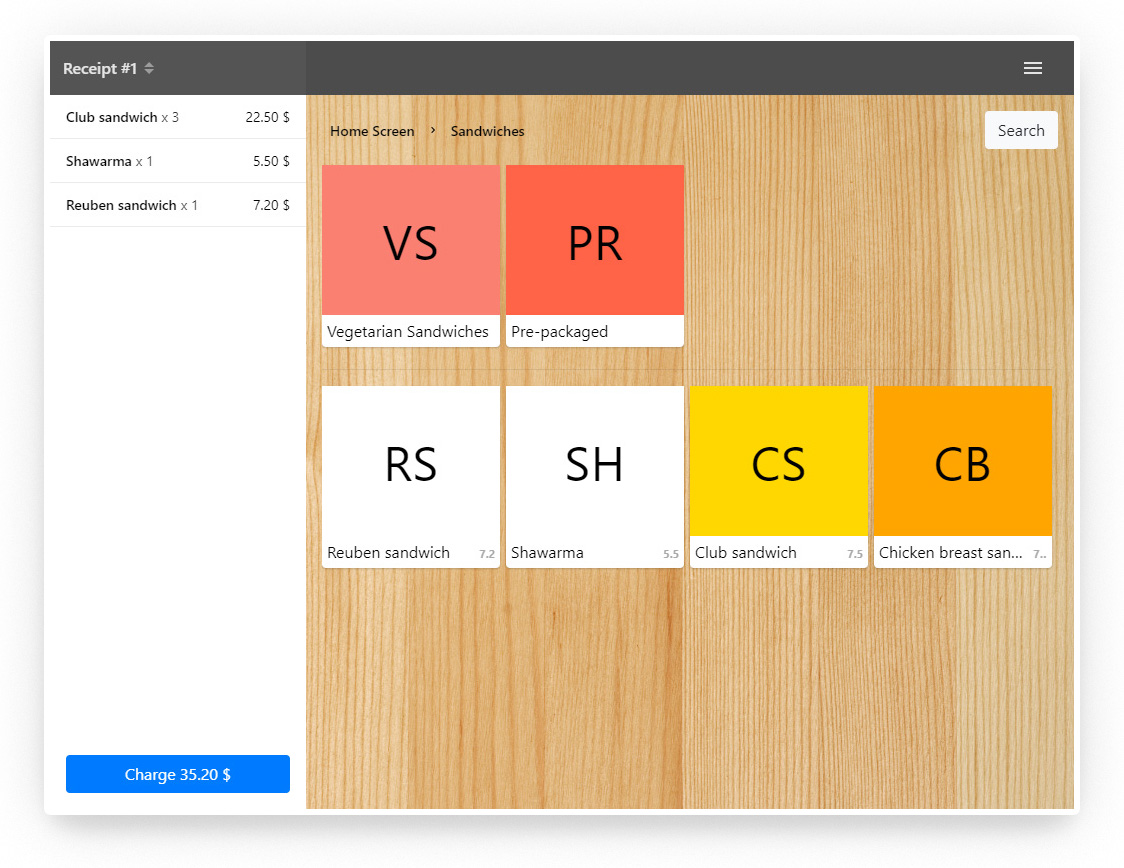
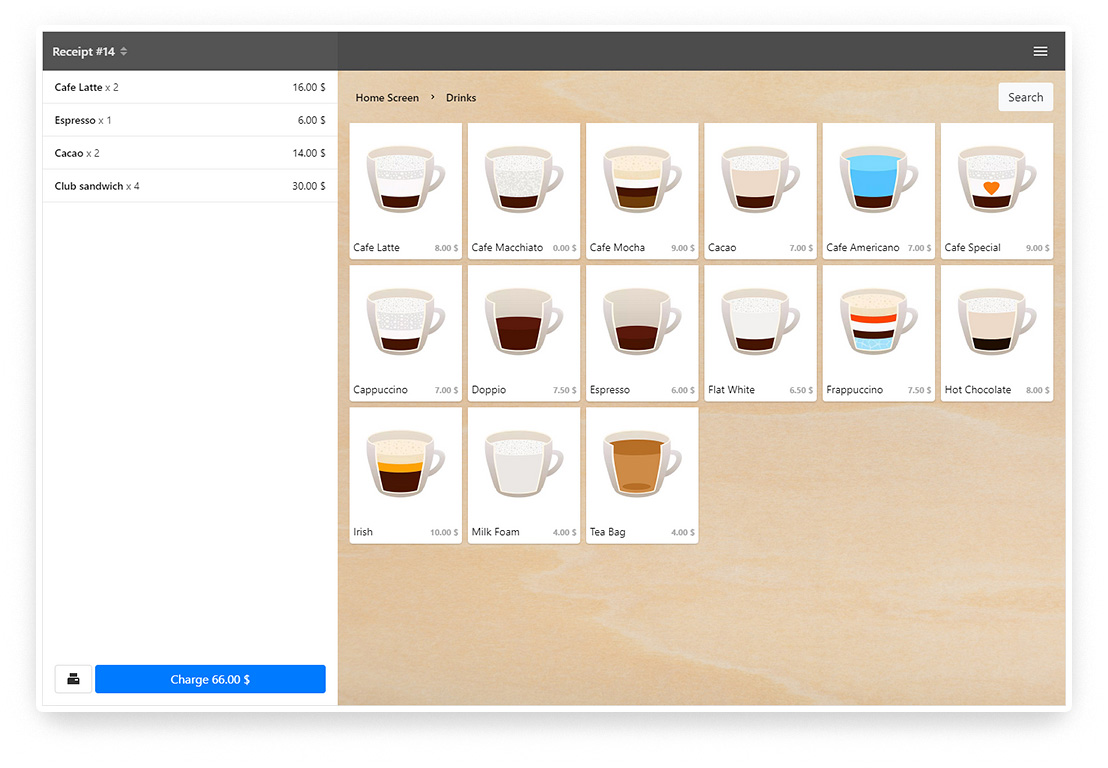
Working on demo mode.

diff --git a/src/hooks/app-context.tsx b/src/hooks/app-context.tsx
@@ -7,6 +7,12 @@ import { createOrder, getOrderData, getOrderItemIndexById } from './app-helpers'
 
 type Context<S> = [S, (value: Partial<S>) => void, TerminalServices];
 
+const store = localForage.createInstance({
+  driver      : localForage.INDEXEDDB,
+  name        : 'AsatelitPOS',
+  version     : 0.2,
+});
+
 // initial state
 export const TerminalInitialState: Context<TerminalState> = [
   {
@@ -58,9 +64,9 @@ export const TerminalInitialState: Context<TerminalState> = [
 
 const readContextFromLocalStorage = (initState: TerminalState): Promise<TerminalState> => {
   // get parsed state from local storage
-  return localForage
+  return store
     .getItem('state')
-    .then(state => (state ? { ...initState, ...JSON.parse(state as string) } : initState))
+    .then(state => state ? { ...initState, ...JSON.parse(state as string) } : initState)
     .catch(err => {
       throw new Error(`Cannot read storage data. Error: ${err}`);
     });
@@ -73,8 +79,11 @@ export const AppContextProvider: React.FC = ({ children }) => {
 
   useEffect(() => {
     (async function updateState() {
+      const demoData = await fetch('./demo.json')
+        .then(response => response.json())
+        .then(data => data || {});
       const state = await readContextFromLocalStorage(TerminalInitialState[0]);
-      setState({ ...state, isLoading: false });
+      setState({ ...state, ...demoData, isLoading: false });
     })();
   }, []);
 
@@ -82,7 +91,7 @@ export const AppContextProvider: React.FC = ({ children }) => {
     try {
       const newState = { ...state, ...value };
       setState(newState); // update state
-      localForage.setItem('state', JSON.stringify(newState)); // save state to local storage
+      store.setItem('state', JSON.stringify(newState)); // save state to local storage
     } catch (error) {
       throw new Error('Error writing data to offline storage.');
     }

diff --git a/src/containers/terminal/components/items/items.tsx b/src/containers/terminal/components/items/items.tsx
@@ -27,27 +27,32 @@ const Items: React.FC<GoodsProps> = ({ categories, products, currentCategoryId, 
     ? products.filter(
         product =>
           !product.isDeleted && !product.isHidden &&
-          product.name.toLowerCase().includes(searchTerm.toLowerCase()) ||
-          product.barcode.toLowerCase().includes(searchTerm.toLowerCase()),
+          (product.name.toLowerCase().includes(searchTerm.toLowerCase()) ||
+          product.barcode.toLowerCase().includes(searchTerm.toLowerCase())),
       )
     : [];
 
   const changeCurrentCategory = (categoryId: number) => services.setCurrentCategory(categoryId);
 
-  const renderItems = (items: Product[]) => (
-    <Fragment>
-      {items.map(product => (
-        <Card
-          key={`product-${product.id}`}
-          label={product.name}
-          price={product.price}
-          picture={product.picture}
-          color={product.color}
-          onClick={() => services.addItemToCurrentOrder(product)}
-        />
-      ))}
-    </Fragment>
-  );
+  const renderItems = (items: Product[]) => {
+    if (!items.length) {
+      return <div className={styles.empty}>There are no items in this category</div>;
+    }
+    return (
+      <Fragment>
+        {items.map(product => (
+          <Card
+            key={`product-${product.id}`}
+            label={product.name}
+            price={product.price}
+            picture={product.picture}
+            color={product.color}
+            onClick={() => services.addItemToCurrentOrder(product)}
+          />
+        ))}
+      </Fragment>
+    );
+  };
 
   const renderFilteredItems = () => <Fragment>{renderItems(filteredItems)}</Fragment>;
 
@@ -82,4 +87,4 @@ const Items: React.FC<GoodsProps> = ({ categories, products, currentCategoryId, 
   );
 };
 
-export default Items;
+export default Items;;

diff --git a/src/containers/terminal/terminal.tsx b/src/containers/terminal/terminal.tsx
@@ -62,17 +62,15 @@ const Terminal: React.FC = () => {
         {renderDrawer}
         <div className={styles.root}>
           <div className={styles.content}>
-            <div className={styles.receiptWrapper}>
-              <Receipt
-                items={products}
-                order={currentOrder}
-                orderId={currentOrderId}
-                services={services}
-                onShowReceipts={() => updateState({ isOpenReceiptsDialog: true })}
-                onPrintCheck={handlePrint}
-              />
-            </div>
-            <div className={styles.itemsWrapper}>
+            <Receipt
+              items={products}
+              order={currentOrder}
+              orderId={currentOrderId}
+              services={services}
+              onShowReceipts={() => updateState({ isOpenReceiptsDialog: true })}
+              onPrintCheck={handlePrint}
+            />
+            <div className={styles.items}>
               <Menu onOpenDrawer={() => updateState({ isOpenDrawer: true })} />
               <Items
                 categories={categories}

diff --git a/src/containers/terminal/components/items/items.module.css b/src/containers/terminal/components/items/items.module.css
@@ -1,5 +1,8 @@
 .root {
-  padding: 1rem;
+  height: 100%;
+  display: flex;
+  flex-direction: column;
+  padding: 1rem .5rem 1rem 1rem;
   flex: 1 1 auto;
   overflow: auto;
   background: url('./wood_texture.jpg') beige center center;
@@ -11,11 +14,14 @@
   display: flex;
   flex-direction: row;
   margin-bottom: 1rem;
+  margin-right: .5rem;
   align-items: center;
 }
 
 .body {
   display: flex;
+  flex: 1 1 auto;
+  align-content: flex-start;
   flex-direction: row;
   flex-wrap: wrap;
   overflow-y: auto;
@@ -27,4 +33,15 @@
   height: 1px;
   margin: 1rem 6px 1rem 0;
   background-color: rgba(0, 0, 0, 0.08);
+}
+
+.empty {
+  font-size: .875rem;
+    width: 100%;
+    text-align: center;
+    display: flex;
+    justify-content: center;
+    align-items: center;
+    padding: 3rem 0;
+    user-select: none;
 }

diff --git a/src/containers/terminal/components/items/components/card/card.module.css b/src/containers/terminal/components/items/components/card/card.module.css
@@ -1,9 +1,9 @@
 .root {
   display: inline-flex;
   flex-direction: column;
-  width: calc(20% - 6px);
-  margin-bottom: 6px;
-  margin-right: 6px;
+  width: 150px;
+  margin-bottom: .5rem;
+  margin-right: .5rem;
   position: relative;
   text-align: center;
   cursor: pointer;
@@ -11,21 +11,6 @@
   border-radius: .25rem;
   background-color: white;
   user-select: none;
-}
-@media (max-width: 1024px) {
-  .root {
-    width: calc(25% - 6px);
-  }
-}
-@media (max-width: 980px) {
-  .root {
-    width: calc(33.33% - 6px);
-  }
-}
-@media (max-width: 768px) {
-  .root {
-    width: calc(50% - 6px);
-  }
 }
 
 .presentation {
@@ -53,7 +38,7 @@
 }
 
 .name {
-  font-size: 1rem;
+  font-size: .875rem;
   flex: 1 1 auto;
   text-align: left;
   white-space: nowrap;

diff --git a/src/containers/terminal/components/receipt/receipt.module.css b/src/containers/terminal/components/receipt/receipt.module.css
@@ -3,11 +3,18 @@
   flex-direction: column;
   height: 100%;
   font-size: .875rem;
+  min-width: 368px;
+}
+@media screen and (min-width: 1366px) {
+  .root { min-width: 394px; }
+}
+@media screen and (min-width: 1920px) {
+  .root { min-width: 474px; }
 }
 
 .actions {
   position: relative;
-  height: 54px;
+  min-height: 52px;
   display: flex;
   align-items: center;
   justify-content: space-between;

diff --git a/src/containers/terminal/terminal.module.css b/src/containers/terminal/terminal.module.css
@@ -8,20 +8,10 @@
   flex: 1 1 auto;
   display: flex;
   flex-direction: row;
-}
-
-.menuWrapper {
-  height: 54px;
-}
-
-.receiptWrapper {
-  width: 25%;
-  min-width: 220px;
   height: 100%;
 }
 
-.itemsWrapper {
-  width: 70%;
+.items {
   height: 100%;
   display: flex;
   flex-direction: column;

diff --git a/src/utils/helpers.ts b/src/utils/helpers.ts
@@ -60,7 +60,6 @@ export function encodeImage(event: ChangeEvent<HTMLInputElement>, cb: (base64: s
   const reader = new FileReader();
   reader.onloadend = () => {
     const { result } = reader;
-    console.info(typeof result);
     if (typeof result === 'string') {
       cb(result);
     }

diff --git a/src/containers/admin/layouts/itemList/itemList.module.css b/src/containers/admin/layouts/itemList/itemList.module.css
@@ -1,7 +1,9 @@
 @value moduleHeight: 4rem;
 
 .root {
-
+  height: 100%;
+  display: flex;
+  flex-direction: column;
 }
 
 .head {
@@ -41,6 +43,8 @@
 }
 
 .body {
+  overflow: auto;
+  flex: 1;
 }
 
 .entity {

diff --git a/src/containers/terminal/components/menu/menu.module.css b/src/containers/terminal/components/menu/menu.module.css
@@ -4,8 +4,8 @@
   align-items: center;
   background: #4c4c4c;
   width: 100%;
-  height: 54px;
-  padding: 0 1rem;
+  min-height: 52px;
+  padding: 0 0.5rem 0 1rem;
   color: white;
   font-size: .875rem;
 }

diff --git a/src/containers/admin/layouts/сategoryList/categoryList.module.css b/src/containers/admin/layouts/сategoryList/categoryList.module.css
@@ -45,6 +45,7 @@
 }
 
 .body {
+  overflow: auto;
 }
 
 .item {
